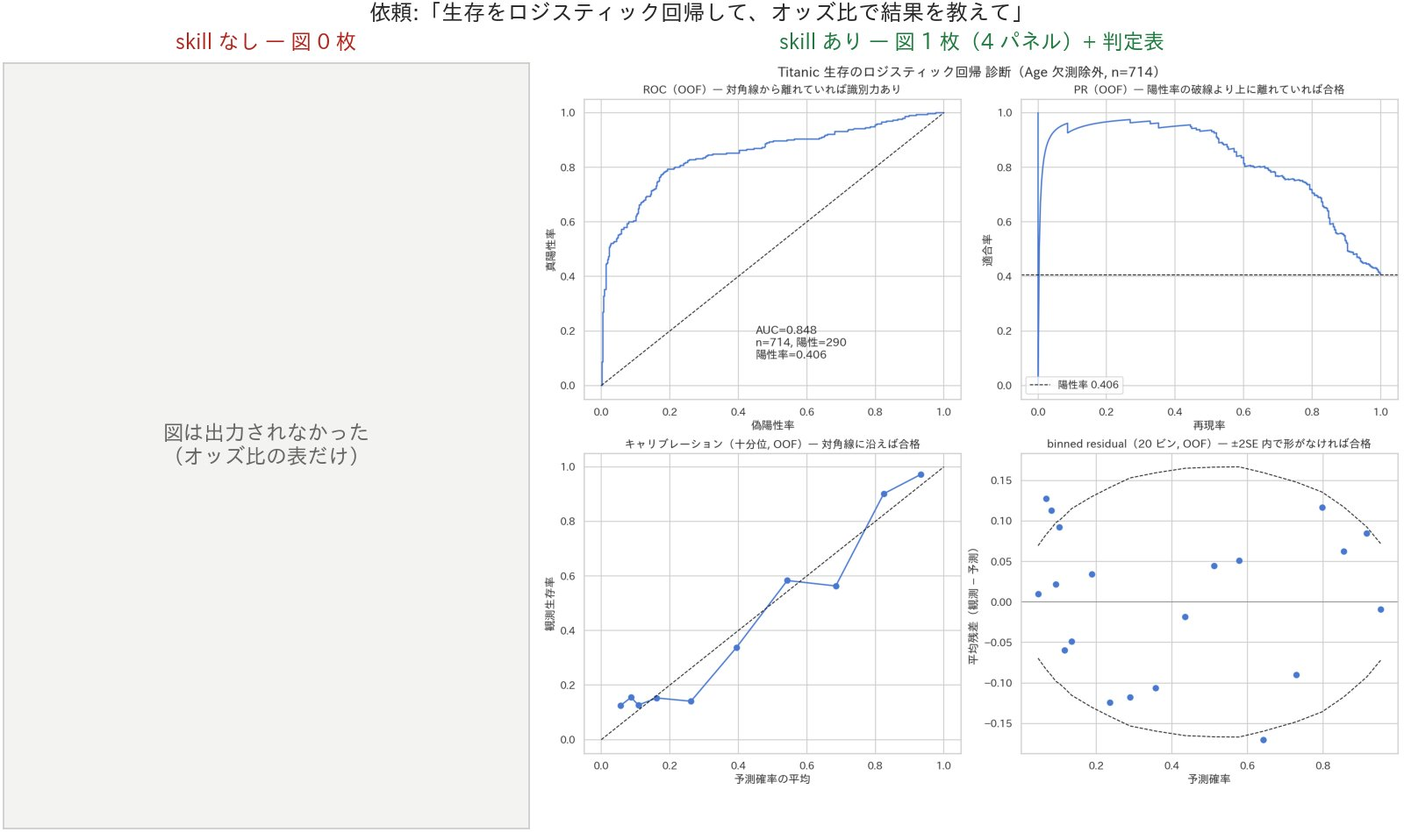
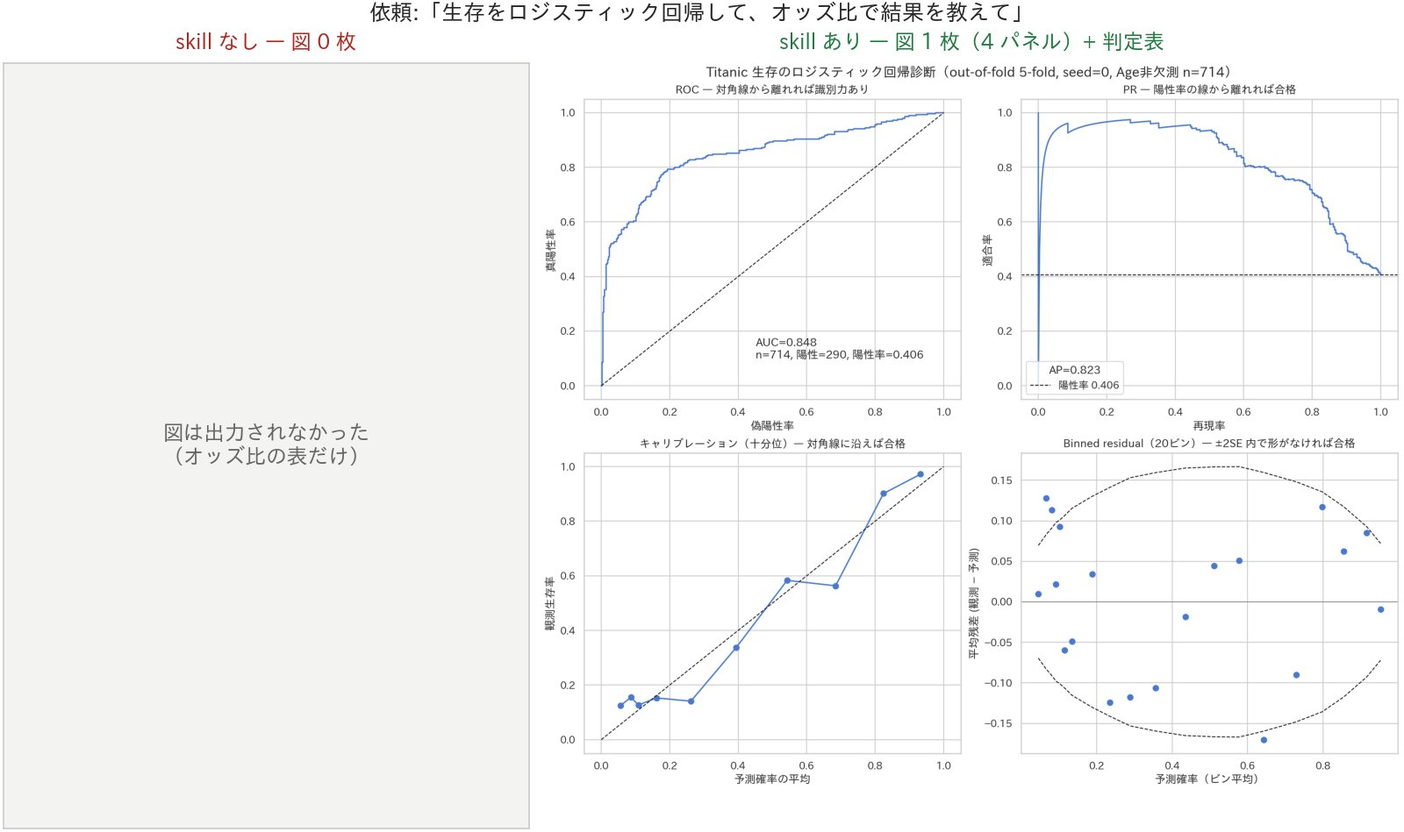
docs: 比較結果を 3 条件 × 3 回の内容に更新し、削った指示と確認結果を載せる
skill なし・ルーター文書に 1 行だけ・フルを各 3 回実行した結果（46 / 58 / 111、各 111 回中）と、
削ったあとの確認（111 回中 111 回、コード例にあった細部 12 個も保たれた）を載せる。
対比図は新しい実行結果から作り直し、項目 × 条件の一覧図を足す。
reference の雛形には、コード例が任意であることと、書かなくてよいことの確かめ方を足す。
README の数字も 3 回分に揃える。

diff --git a/docs/skill-ablation.md b/docs/skill-ablation.md
@@ -1,29 +1,37 @@
-# 診断 skill は本当に要るのか — skill を外して同じ依頼を投げた結果
+# 診断 skill は本当に要るのか — skill を外して比べ、要らない指示を削った結果
 
 `*-diagnostics` skill は、分析手法ごとに「一緒に出すべき図と値」を定めたものです。
-ただ、モデルが賢くなれば、書かなくても同じものを出すかもしれません。
-そこで、診断 skill を外したリポジトリと外していないリポジトリで、同じ依頼を同じモデルに投げて比べました。
+モデルが賢くなれば、書かなくても同じものを出すかもしれません。
+そこで、診断の指示を外した条件と比べ、外しても出てくる指示を skill から削りました。
 
 ## 結論
 
-- **skill ありは、references が「必ず出す」と定めた 37 項目をすべて出しました。skill なしが出したのは 13 項目です**（一部だけ出たものが 5、出なかったものが 19）。
-- 差が最も大きかったのはロジスティック回帰です。skill なしはオッズ比の表だけを返し、図は 0 枚でした。報告には「モデルの当てはまりの良さや、変数どうしの相関の強さは確認していません」と書かれていました。
-- 予測モデルの評価では、skill なしでも基本は押さえていました。ベースラインとの比較、リークを避けた前処理、テストデータでの評価を 1 回に限ることは、書かなくても出ました。
-- k-means では結論そのものが変わりました。skill なしは 7 クラスタ（うち 1 つは 13 人）を採用し、skill ありは診断を見て 3 クラスタを採用しました。
-- 費用は skill ありが約 1.5 倍です（3 ケース合計で 2.25 ドルと 1.52 ドル）。
+- **skill が「必ず出す」と定めた 37 項目を 3 回ずつ数えると、フルは 111 回中 111 回、skill なしは 46 回でした。**
+- 診断 skill を置かず、ルーター文書（`AGENTS.md` / `CLAUDE.md`）に「診断の図と値をセットで出す」と 1 行だけ書いた条件（以下「AGENTS.md のみ」）は 58 回です。1 行で増えたのは ROC 曲線・VIF・シルエットプロットのような有名な診断で、binned residual・EPV・帰無ベースラインなどは 1 回も出ませんでした。
+- ロジスティック回帰は、skill なしでは 3 回とも図が 0 枚でした。
+- skill なしでも毎回出た項目は 14 個ありました。このうち行ごと削れたのは 2 行です。残りは、合格基準を持つ行か、今回試せていない条件分岐を含む行でした。
+- 削れたのは主にコード例です。今回試した手法のコード例を外しても、37 項目は 111 回中 111 回出ました。3 本の references は 312 行から 222 行になりました。
 
-各条件 1 回ずつの実行なので、数字は傾向として読んでください（[制約](#制約)を参照）。
+各条件 3 回、3 ケースだけの結果です（[制約](#制約)を参照）。
 
 ## 比べ方
 
 | 項目 | 内容 |
 |---|---|
 | モデル | Claude Opus 5.5（`claude-opus-5-5`）、effort は `medium` |
-| 実行環境 | Claude Code 2.1.310 の headless 実行（`claude -p`）。実行日は 2026-11-14 |
-| skill あり | このリポジトリをそのまま使う |
-| skill なし | `*-diagnostics` の 5 ルーターと 19 references、それを指す記述（`CLAUDE.md` の Hard Rule とルーティング表の行、`analysis-reporting` の診断サマリー節、`statistical-ml-review`、README の本文）を外す。`visualization` や `analysis-reporting` などの基本 skill は残す |
-| ケース | 発火テストの基本セットから、手法の家族が異なる 3 件。プロンプトは下の表のとおりで、skill にも診断にも触れていない |
-| 回数 | 各条件 1 回 |
+| 実行環境 | Claude Code 2.1.310 の headless 実行（`claude -p`）。2026-11-14〜15 に実行 |
+| ケース | 発火テストのケースから、手法の種類と頼み方が重ならない 3 件。プロンプトは skill にも診断にも触れていない |
+| 回数 | 各条件 3 回（3 条件 × 3 ケース × 3 回 = 27 実行）。削ったあとの確認に 9 実行 |
+
+| 条件 | 診断についての指示 |
+|---|---|
+| skill なし | なし。5 つのルーターと 19 本の references、それに触れる記述（`CLAUDE.md` の Hard Rule とルーティング表の行、`analysis-reporting` の診断サマリー節、`statistical-ml-review`）を外す |
+| AGENTS.md のみ | skill なしと同じものを外したうえで、`CLAUDE.md` の Hard Rules に 1 行だけ足す: `When applying a statistical, ML, causal, simulation, or optimization method, always output its diagnostics with it (図と値をセットで出す).` |
+| フル | リポジトリのまま |
+| 削った後 | フルから、下の「削ったもの」を除いたもの |
+
+どの条件でも、`visualization` などの基本 skill は残し、README は見出しだけに差し替えています（README には診断 skill の説明とこの比較の結果が書いてあるため）。
+実行のたびにリポジトリの外に新しい作業ディレクトリを作り、条件に合わせて外した状態を最初のコミットにしています。
 
 | ケース | プロンプト | 対応する reference |
 |---|---|---|
@@ -31,170 +39,119 @@
 | 予測モデルの評価 | Titanic（data/raw/train.csv）で乗客の生存を予測するモデルを作って、どれくらい当たるか評価して。 | `ml-evaluation.md`（分類） |
 | k-means | Titanic（data/raw/train.csv）の乗客を k-means でセグメントに分けて、それぞれの特徴を教えて。 | `clustering.md`（k-means） |
 
-実行のたびに、リポジトリの外に新しい作業ディレクトリを作り、そこでエージェントを起動しています。
-skill なしの条件では、skill を外した状態を最初のコミットにしているので、エージェントからは「最初から診断 skill が無いリポジトリ」に見えます。
+### 採点
 
-照合は次の手順で行いました。
+references の「必ず出す図」「必ず出す値」を 1 項目ずつに分け、項目ごとに「出たか、出ないか」を数えました（3 本で 37 項目）。
+判定は正規表現で機械的に行っています（[採点表](../scripts/skill_eval/checklists.yaml)）。
 
-1. 各 reference の「必ず出す図」「必ず出す値」を項目に分ける。表や箇条書きの 1 行を 1 項目とし、1 行に複数の図があるものは図ごとに分ける。条件つきの項目（「確率を使う場合」のキャリブレーション図など）は数えない。
-2. 最終報告、生成されたスクリプト、図を読み、項目ごとに ○（出ている）・△（一部だけ）・×（出ていない）を付ける。
+- 図の項目: 生成されたスクリプトに描画のための関数（`roc_curve(` など）があり、図のファイルが保存されている
+- 値の項目: 最終報告か保存された表に、その診断の名前（VIF、EPV など）が現れる。「確認していません」のような否定の文は数えない
 
-照合は Claude（Fable 5.2）が行いました。人による再確認はしていません。
-見たのは「出ているかどうか」だけで、図や判定の中身が正しいかは確かめていません。
+採点表は、結果を目で確かめて 2 回直しました。出ているのに数えていなかった 14 セル（「学習データと検証データのスコア差」のような言い回しの違い）を直し、途中で入った誤検出 1 セル（「交差検証」の「差」に当たっていた）を除いています。
+見ているのは「出たか」だけで、図や判定の中身が正しいかは確かめていません。
 
-## 結果の一覧
+## 結果
 
-| ケース | 必ず出す項目 | skill あり | skill なし | 判定表（あり / なし） | 時間と費用（あり） | 時間と費用（なし） |
-|---|---|---|---|---|---|---|
-| ロジスティック回帰 | 12 | ○ 12 | ○ 0 / △ 2 / × 10 | ○ / × | 2.3 分・0.65 ドル | 1.4 分・0.36 ドル |
-| 予測モデルの評価 | 12 | ○ 12 | ○ 6 / △ 2 / × 4 | ○ / × | 2.4 分・0.70 ドル | 3.0 分・0.55 ドル |
-| k-means | 13 | ○ 13 | ○ 7 / △ 1 / × 5 | ○ / × | 3.7 分・0.91 ドル | 2.8 分・0.61 ドル |
-| 合計 | 37 | ○ 37 | ○ 13 / △ 5 / × 19 | 3 件 / 0 件 | 2.25 ドル | 1.52 ドル |
+![37 項目が、条件ごとに 3 回中何回出たか。skill なしと AGENTS.md のみの条件では、ロジスティック回帰の項目がほとんど出ていない](images/ablation-matrix.jpg)
 
-判定表は、診断項目ごとに実測値・合格基準・判定（`OK` / `要対処` / `確認`）・次アクションを並べた表です。
-書式は skill が決めているので、skill なしの側に無いのは当然です。
-ただし skill なしの報告には、基準に照らして合否を述べる記述そのものがほとんどありませんでした。
+| | skill なし | AGENTS.md のみ | フル | 削った後 |
+|---|---|---|---|---|
+| ロジスティック回帰（12 項目 × 3 回） | 0/36 | 7/36 | 36/36 | 36/36 |
+| 予測モデルの評価（12 項目 × 3 回） | 21/36 | 22/36 | 36/36 | 36/36 |
+| k-means（13 項目 × 3 回） | 25/39 | 29/39 | 39/39 | 39/39 |
+| 合計 | 46/111（41%） | 58/111（52%） | 111/111 | 111/111 |
+| 判定表が付いた実行 | 0/9 | 0/9 | 9/9 | 9/9 |
+| 1 実行あたりの費用と時間 | 0.54 ドル・3.0 分 | 0.66 ドル・3.2 分 | 0.90 ドル・3.5 分 | 0.91 ドル・3.4 分 |
 
-## ロジスティック回帰
+### ロジスティック回帰: 頼まれたものだけが返る
 
 ![ロジスティック回帰の生成図の比較。skill なしは図が無く、skill ありは ROC・PR・キャリブレーション・binned residual の 4 パネル](images/ablation-glm.jpg)
 
-オッズ比と 95% 信頼区間は、両方の条件で同じ値でした（男性 0.081、2 等 0.279、3 等 0.079、年齢 10 歳あたり 0.693、運賃 10 ポンドあたり 1.005）。違いは、その推定を信用してよいかを確かめたかどうかです。
+skill なしは、3 回ともオッズ比と信頼区間だけを返しました。図は 0 枚で、12 項目は 1 つも出ていません。
+3 回のうち 1 回は、報告の注意点に「モデルの当てはまりの良さや、変数どうしの相関の強さは確認していません」と書いていました。
 
-| 必ず出す項目（`glm.md`・二値） | skill あり | skill なし |
+AGENTS.md のみの条件で毎回出たのは、ROC 曲線と VIF の 2 つです。PR 曲線、キャリブレーション、binned residual、EPV は 1 回も出ませんでした。
+
+### 予測モデルの評価: 基本は書かなくても出る
+
+![予測モデルの評価の生成図の比較。skill なしは ROC 曲線と混同行列、skill ありは学習曲線・ベースライン比較・混同行列・ROC・PR・キャリブレーションの 6 パネル](images/ablation-mleval.jpg)
+
+依頼が「評価して」なので、評価の基本は頼まれた範囲に入っています。
+skill なしでも、Pipeline による前処理、層化した分割、ベースラインとの比較、テストデータでの評価を 1 回に限ること、陽性率の報告は 3 回とも出ました。
+
+skill なしで 1 回も出なかったのは、学習曲線、ベースラインと並べた図、PR 曲線、train と validation の差、平均予測確率と陽性率の比です。
+
+### k-means: 1 行で増えるもの、増えないもの
+
+![k-means の生成図の比較。skill なしは k の走査とセグメント別の特徴の 2 枚、skill ありは帰無ベースライン付きの走査・シルエットプロット・PCA 射影・プロファイル・外部変数の 6 パネル](images/ablation-kmeans.jpg)
+
+エルボーとシルエットによる k の走査、クラスタごとの人数と特徴は、skill なしでも毎回出ました。
+AGENTS.md のみの条件では、シルエットプロット、PCA 射影、安定性（ARI）が毎回出るようになりました。
+一方、列ごとの順列で作る帰無ベースラインは、skill なしでも AGENTS.md のみでも 1 回も出ていません。
+
+採用したクラスタ数は、どの条件でも実行ごとに変わりました（skill なし 6・4・7、AGENTS.md のみ 6・6・8、フル 4・4・6、削った後 3・4・3）。
+使う特徴量が実行ごとに違うので、どれが正しいかは比べられません。
+
+## 削ったもの、残したもの
+
+削る基準は、結果を見る前に「skill なしで 3 回とも出た項目だけを削る」と決めていました。該当したのは 14 項目です。
+結果を見てから、基準を 2 つ厳しくしました。
+
+1. AGENTS.md のみの条件でも 3 回とも出ていること（6 回中 6 回）。14 項目のうち 11 項目が残りました。
+2. その行の内容が、今回のケースですべて試せていること。「分割方法」の行は時系列やグループの分割を、「チューニング時の分割」の行は nested CV を含みますが、今回のケースでは試せていません。合格基準と違反時の対処を持つ行（クラスタの人数が 5% 未満なら k を減らす、など）も残しました。
+
+| | 内容 | 行数 |
 |---|---|---|
-| 図: ROC 曲線（AUC・陽性率・n を併記） | ○ | × |
-| 図: PR 曲線（陽性率の水平線） | ○ | × |
-| 図: キャリブレーションプロット（十分位） | ○ | × |
-| 図: binned residual plot（±2SE のバンド） | ○ | × |
-| 値: 係数の SE（完全分離の一次判定） | ○ | △ 表の列にはあるが、分離の確認には使っていない |
-| 値: VIF の最大値 | ○ 2.67 | × |
-| 値: 反復測定・パネル構造の有無 | ○ | × |
-| 値: 係数の絶対値 | ○ | △ 同上 |
-| 値: EPV（少ない側の件数 ÷ 変数の数） | ○ 58.0 | × |
-| 値: AUC・AP | ○ 0.848 / 0.823 | × |
-| 値: Brier score | ○ 0.146（基準値 0.241） | × |
-| 値: binned residual のバンド外ビン数 | ○ 20 ビン中 3 | × |
+| 削った行 | `ml-evaluation.md` の「前処理が Pipeline 内か」「汎化スコアと幅」 | 2 |
+| 削ったコード例 | 今回試した手法（二値の GLM、分類の評価、k-means）の取得例 | 88 |
+| 残したもの | 残りの 35 項目の行、合格基準、落とし穴、試していない手法（カウントの GLM、階層・GMM・DBSCAN）のコード例 | 222 |
 
-skill なしの報告は、注意点として次のように書いていました。
+コード例は、skill なしとの比較からは要否が分かりません。そこで、削ったあとの skill で同じ 9 実行を行って確かめました。
 
-> モデルの当てはまりの良さや、変数どうしの相関の強さは確認していません。
+- 37 項目は、111 回中 111 回出ました。削った 2 行の項目（Pipeline、ベースラインとの比較）も 3 回とも出ています。
+- コード例に書いてあった細部 12 個（VIF を定数項込みで計算する、性能は学習に使っていないデータで出す、キャリブレーションを十分位で区切る、帰無ベースラインを列ごとの順列で 20 本作る、など）も、削る前と同じく 3 回とも保たれていました。これらは「必ず出す図・値」の表にも書いてあります。
 
-skill ありの報告には、次の判定表が付きました（最終応答からそのまま引用）。
-
-| 診断項目 | 実測値 | 合格基準 | 判定 | 次アクション |
-|---|---|---|---|---|
-| 収束 / 完全分離 | 収束済み、SE 最大 0.46、\|係数\| 最大 3.72、クロス表の最小セル 64 | SE<100、\|係数\|<10、0 のセルなし | OK | — |
-| VIF の最大値 | 2.67 | <10 | OK | — |
-| EPV（少ない側の件数 ÷ 変数の数） | 58.0 | ≥10 | OK | — |
-| AUC / AP（予測精度、5-fold で学習に使っていないデータで評価） | 0.848 / 0.823（陽性率 0.406、n=714、生存 290） | 文脈依存 | OK | — |
-| Brier スコア（予測確率の誤差） | 0.146 | 0.241（陽性率から計算した基準値）より小さい | OK | — |
-| binned residual（予測確率帯ごとの残差）の帯外ビン数 | 20 ビン中 3 | ≤3 で、外れ方に形がない | 確認 | 件数は上限ちょうどです。図では予測 0.2〜0.4 の帯で負の残差が続き、両端では正寄りでした。キャリブレーション図でも 0.25 付近を過大に予測しています。関数形が合っていない可能性があるので、性別×等級の交互作用や年齢のスプライン（非線形化）を入れたモデルとの比較を提案します（今回は実施していません） |
-| 反復測定の構造 | なし（1行=乗客1人） | — | OK | — |
-| Age 欠測による除外 | 177/891 行を除外。生存率は欠測行 0.294、観測行 0.406 | 欠測行と観測行で生存率に偏りがない | 確認 | 欠測行は生存率が低く、無作為な欠測ではない可能性があります。多重代入（欠測値の補完）での感度分析を検討してください |
-
-「確認」が 2 件あります。関数形が合っていない可能性と、年齢の欠測が無作為でない可能性です。
-どちらも、オッズ比の表だけを見ていては気づけません。
-
-## 予測モデルの評価
-
-![予測モデルの評価の生成図の比較。skill なしは混同行列 1 枚、skill ありは学習曲線・ベースライン比較・混同行列・ROC・PR・キャリブレーションの 6 パネル](images/ablation-mleval.jpg)
-
-3 ケースの中で、skill なしが最もよく出したケースです。依頼が「評価して」なので、評価の基本は頼まれた範囲に入っています。
-
-| 必ず出す項目（`ml-evaluation.md`・分類） | skill あり | skill なし |
-|---|---|---|
-| 図: 過学習を見る曲線（学習曲線） | ○ | × |
-| 図: ベースラインとの比較（幅つき） | ○ 箱ひげ図 | △ 図は無い。表で、交差検証の平均 ± SD を 2 種類のベースラインと並べている |
-| 図: 混同行列（閾値を明記） | ○ | ○ |
-| 図: PR 曲線・ROC 曲線 | ○ | × AUC の値だけ |
-| 値: 前処理が Pipeline の中にあるか | ○ | ○ |
-| 値: 分割方法とその理由 | ○ 層化に加えて、同じチケットの同行者をまとめた分割でも確認 | △ 層化は理由つき。同行者というグループ構造は見ていない |
-| 値: 汎化スコアと幅（ベースラインとの比較） | ○ | ○ 「全員死亡」と「性別だけ」の 2 種類と比較 |
-| 値: train と validation のスコアの差 | ○ 0.013 | × |
-| 値: テストデータでの評価回数 | ○ 1 回 | ○ 1 回 |
-| 値: チューニング時の分割 | ○ チューニングなしと明記 | ○ 同じ |
-| 値: 陽性率 | ○ | ○ |
-| 値: 平均予測確率 ÷ 実際の陽性率 | ○ 0.958 | × |
-
-条件つきの項目であるキャリブレーション図は、skill ありだけが出しました（skill なしは確率を判断に使っていないので、対象外として数えていません）。
-
-skill なしで出なかったのは、予測確率の質（キャリブレーション）、過学習の確認（学習曲線、train と validation の差）、グループ単位のリークの確認です。
-
-## k-means
-
-![k-means の生成図の比較。skill なしはエルボーとシルエットの走査、セグメント別プロファイルの 2 枚。skill ありは帰無ベースライン付きの走査、シルエットプロット、PCA 射影、プロファイル、外部変数の 6 パネル](images/ablation-kmeans.jpg)
-
-| 必ず出す項目（`clustering.md`・k-means） | skill あり | skill なし |
-|---|---|---|
-| 図: シルエットプロット（サンプル別） | ○ | × |
-| 図: PCA 2 次元射影 | ○ | × |
-| 図: クラスタプロファイル（各クラスタの n を併記） | ○ | ○ |
-| 図: 外部変数プロファイル（クラスタリングに使わなかった列） | ○ | ○ 生存率などを同じヒートマップに載せている |
-| 図: エルボーとシルエット平均の k 走査 | ○ k = 2〜10 | ○ k = 2〜8 |
-| 図: 走査図に重ねる帰無ベースラインの帯 | ○ | × |
-| 値: スケーリングの方針 | ○ | ○ |
-| 値: 採用した k とその根拠 | ○ | ○ シルエット最大。k = 3〜8 が横並びとも書いている |
-| 値: 帰無ベースラインとの比較 | ○ 0.51（帰無の 95% 点は 0.31） | × |
-| 値: シルエット平均 | ○ 0.51 | ○ 0.38 |
-| 値: 各クラスタの n（極小クラスタへの注記） | ○ 最小 17.5% | ○ 13 人のセグメントを「参考値」と注記 |
-| 値: 安定性（サブサンプルの ARI） | ○ 中央値 0.996 | × 「確認していません」と明記 |
-| 値: `n_init` と乱数 seed | ○ | △ スクリプトでは固定しているが、報告に書いていない |
-
-このケースでは、採用したクラスタ数が違いました。
-
-- **skill なし**: シルエット平均が最大になる k = 7 を採用しました。7 つのうち 1 つは 13 人（全体の 1.5%）です。
-- **skill あり**: 最初の実行ではシルエット最大の k = 10 が候補になりました。しかし 15 人（1.7%）の極小クラスタができること、特徴量が離散値なので k を増やすほどシルエットが上がり続けることを診断から読み取り、エルボーが折れる k = 3 を採用しました。
-
-2 つの条件は使った特徴量が違うので（skill なしは性別と年齢を含む 6 列、skill ありは 4 列）、どちらの k が正しいかは比べられません。
-言えるのは、「シルエット最大で k を決めると極小クラスタができる」という同じ状況で、skill ありだけがそれを判断材料にしたということです。
+3 本の references は 312 行から 222 行（`glm.md` 114 → 80、`ml-evaluation.md` 82 → 53、`clustering.md` 116 → 89）になりました。診断 skill 全体では 2,072 行から 1,982 行です。残りの 16 本は比べていないので、手を付けていません。
 
 ## 読み取れること
 
-**頼まれた範囲の外にある確認は、skill が無いと出にくい。**
-「ロジスティック回帰して、オッズ比を教えて」には、オッズ比だけが返ってきました。
-「評価して」と頼んだケースでは評価の基本が出ています。
+**頼まれた範囲の外にある確認は、skill が無いと出ない。**
+「ロジスティック回帰して、オッズ比を教えて」にはオッズ比だけが返り、「評価して」と頼んだケースでは評価の基本が出ました。
 モデルは診断のやり方を知らないのではなく、頼まれていないので省いています。
-skill なしの報告が「確認していません」と自分で書いているのは、その表れです（3 件中 2 件）。
 
-**skill なしでも出た項目は、書かなくてよい候補です。**
-今回の 3 ケースでは次の項目が該当します。1 回ずつの結果なので、削る前に回数を増やして確かめる必要があります。
+**「診断も出して」の 1 行で出るのは、有名な診断まで。**
+ROC 曲線や VIF は 1 行で出ますが、binned residual、EPV、帰無ベースライン、平均予測確率と陽性率の比は出ません。
+何を出すかを具体的に書いた表は、1 行では置き換えられませんでした。
 
-- `ml-evaluation.md`: 前処理を Pipeline に入れる、ベースラインと幅つきで比べる、テスト評価は 1 回、陽性率を報告する、混同行列
-- `clustering.md`: スケーリングの方針、エルボーとシルエットによる k の走査、シルエット平均、クラスタごとの n、プロファイル
+**書き方（コード例）は、今回の 3 本では要らなかった。**
+何を、どの条件で出すかが表に書いてあれば、コード例が無くても同じ図と値が出ました。
+コード例はライブラリの更新で動かなくなるので、保守の手間が減ります。
 
-**skill が効いていた項目は、分析結果を疑うための確認です。**
-
-- `glm.md`: 12 項目すべて
-- `ml-evaluation.md`: 学習曲線、キャリブレーション、グループ単位のリークの確認、train と validation の差
-- `clustering.md`: 帰無ベースライン、安定性、シルエットプロット、PCA 射影
-
-**費用は増えます。** skill ありは図と値を多く出すぶん、3 ケース合計で約 1.5 倍の費用がかかりました。
+**skill は費用を増やす。**
+フルは skill なしに比べて、1 実行あたりの費用が約 1.7 倍でした。90 行削っても費用は変わっていません。
 
 ## 制約
 
-- **各条件 1 回の実行です。** 同じ条件でも実行ごとに出力は変わるので、項目数の差には実行ごとのばらつきが含まれます。
-- **3 ケースだけです。** 発火テストの 68 ケースのうち 3 件、19 references のうち 3 本しか見ていません。
-- **モデルと effort は 1 通りです。** effort を上げれば、skill なしでも出る項目が増える可能性があります。
-- **照合は AI が行いました。** 人による再確認はしていません。「出ているか」を見ただけで、判定の中身の正しさは確かめていません。
-- **skill ありの条件には README もあります。** README は診断 skill の説明を含むので、skill なしの条件では本文を外しました。2 条件の差は「診断 skill とその説明書き」の有無です。
-- **実行した端末の個人設定は両条件で同じです。** ユーザーレベルで入れている skill や plugin は、どちらの条件にも同じように入っています。
-- 実行の途中で Claude の利用上限に当たり、6 件中 3 件は同じ日に同じ条件で実行し直しました。
+- **3 ケースだけです。** 19 本の references のうち、比べたのは 3 本です。削ったのもその 3 本だけです。
+- **モデルと effort は 1 通りです。** 別のモデルや effort では、skill なしで出る項目も、コード例の要否も変わる可能性があります。Copilot や Codex では試していません。
+- **各 3 回です。** 3 回とも出た場合でも、出現率の 95% 信頼区間の下限は 0.29 です。削った指示が要る場面が残っている可能性はあります。
+- **採点は正規表現です。** 出たかどうかだけを見ていて、中身の正しさは見ていません。コード例の細部の確認も、スクリプトに正規表現を当てただけです。
+- **題材は Titanic だけです。** 扱いにくいデータでは、コード例が効く可能性があります。
+- **実行した端末の個人設定は全条件で同じです。** ユーザーレベルで入れている skill や plugin は、どの条件にも同じように入っています。
 
 ## 再現方法
 
-前提（`claude` へのログイン、`data/raw/train.csv` の配置）と費用の目安は [scripts/skill_eval/README.md](../scripts/skill_eval/README.md) を参照してください。
+前提（`claude` へのログイン、`data/raw/train.csv` の配置）は [scripts/skill_eval/README.md](../scripts/skill_eval/README.md) を参照してください。
 
 ```bash
-# skill あり
-uv run python scripts/run_skill_eval.py run --only glm-explicit,mleval-implicit,cluster-kmeans \
-  --model claude-opus-5-5 --effort medium --run-id ablation-full
-# skill なし（*-diagnostics とそれを指す記述を外す）
-uv run python scripts/run_skill_eval.py run --only glm-explicit,mleval-implicit,cluster-kmeans \
-  --model claude-opus-5-5 --effort medium --arm no-diagnostics --run-id ablation-no-diagnostics
-# 2 つの結果を横に並べたレポートを作る（API は呼ばない）
-uv run python scripts/run_skill_eval.py compare outputs/skill_eval/ablation-full outputs/skill_eval/ablation-no-diagnostics
+CASES=glm-explicit,mleval-implicit,cluster-kmeans
+OPTS="--only $CASES --model claude-opus-5-5 --effort medium --repeat 3"
+uv run python scripts/run_skill_eval.py run $OPTS --arm no-diagnostics --run-id abl-none
+uv run python scripts/run_skill_eval.py run $OPTS --arm agents-md-rule --run-id abl-rule
+uv run python scripts/run_skill_eval.py run $OPTS --run-id abl-full
+# 項目ごとに「出た回数 / 実行回数」を数える（API は呼ばない）
+uv run python scripts/run_skill_eval.py score outputs/skill_eval/abl-none outputs/skill_eval/abl-rule outputs/skill_eval/abl-full
 ```
 
-実行結果（transcript、生成されたスクリプトと図）は `outputs/skill_eval/` に出力されます。
-transcript に行レベルのデータが残りうるため、リポジトリには含めていません。
+削る前のフルを再現するには、references を削る直前のコミット `d1c4d46` で実行してください。それより後のコミットでは、フルの条件が「削った後」になります。
+実行結果（transcript、生成されたスクリプトと図）は `outputs/skill_eval/` に出力されます。transcript に行レベルのデータが残りうるため、リポジトリには含めていません。

diff --git a/docs/agent/diagnostics-reference-template.md b/docs/agent/diagnostics-reference-template.md
@@ -62,16 +62,26 @@
 |---|---|---|---|
 | 共通 / <手法 A> | <統計量・件数・フラグ> | <数値の基準。流儀で割れるなら両方書く> | <次アクション。機械的に決められないものは「人間判断」と書く> |
 
-取得例:
+取得例（任意）:
 
 ```python
 # <主の手法で主要な値を 1 度に取る最小コード>
 ```
 
-（手法ごとの差分は別ブロックにする）
+（手法ごとの差分は別ブロックにする。コード例は無くてもよい。何を・どの条件で出すかが表に書いてあれば、
+コード例を外しても同じ図と値が出ることを 3 本の reference で確かめている。載せるのは、表の記述だけでは
+正しく実装されなかった処理に限る）
 
 ## 落とし穴
 
 - <5 項目程度。「やりがちな NG」と「なぜダメか」を 1 行で>
 - <NG 例を 1 つ、コード 1〜2 行で>
 ````
+
+## 書かなくてよいことを確かめる
+
+reference に書いた指示が要るかどうかは、外して同じ依頼を投げると分かる（手順と結果は [docs/skill-ablation.md](../skill-ablation.md)）。
+
+- skill なしでも毎回出る項目は、「必ず出す」の表に書かない。合格基準や違反時の対処を持つ行、条件分岐の一部しか試せていない行は残す
+- 項目を足したら、`scripts/skill_eval/checklists.yaml` の採点表にも足す。採点表が無い reference は比べられない
+- 削ったら、削ったあとの skill で同じケースを実行し、出力が減っていないことを確かめる
